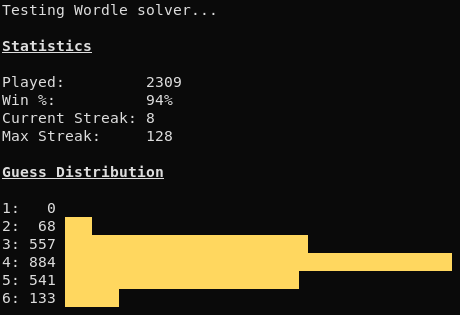
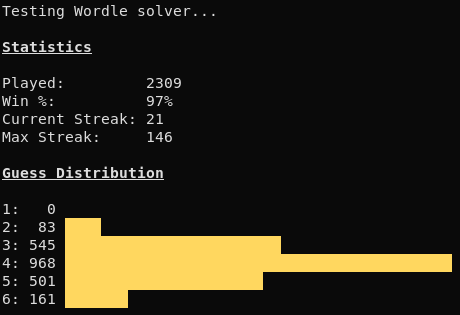
Supplement known words with official Wordle words

diff --git a/README.md b/README.md
@@ -6,7 +6,9 @@ A simple Wordle solver.
 
 `wordle-solver` sources five letter words from `/usr/share/dict/words` (or
 another specified file containing one word per line) and attempts to solve a
-[Wordle](https://www.nytimes.com/games/wordle/index.html) puzzle.
+[Wordle](https://www.nytimes.com/games/wordle/index.html) puzzle. Known words
+are supplemented from the official *Wordle* words if they are not found in the
+default or supplied list.
 
 The user must give feedback indicating whether each letter guessed does not
 appear in the word, does appear, but at a different location, or appears at
